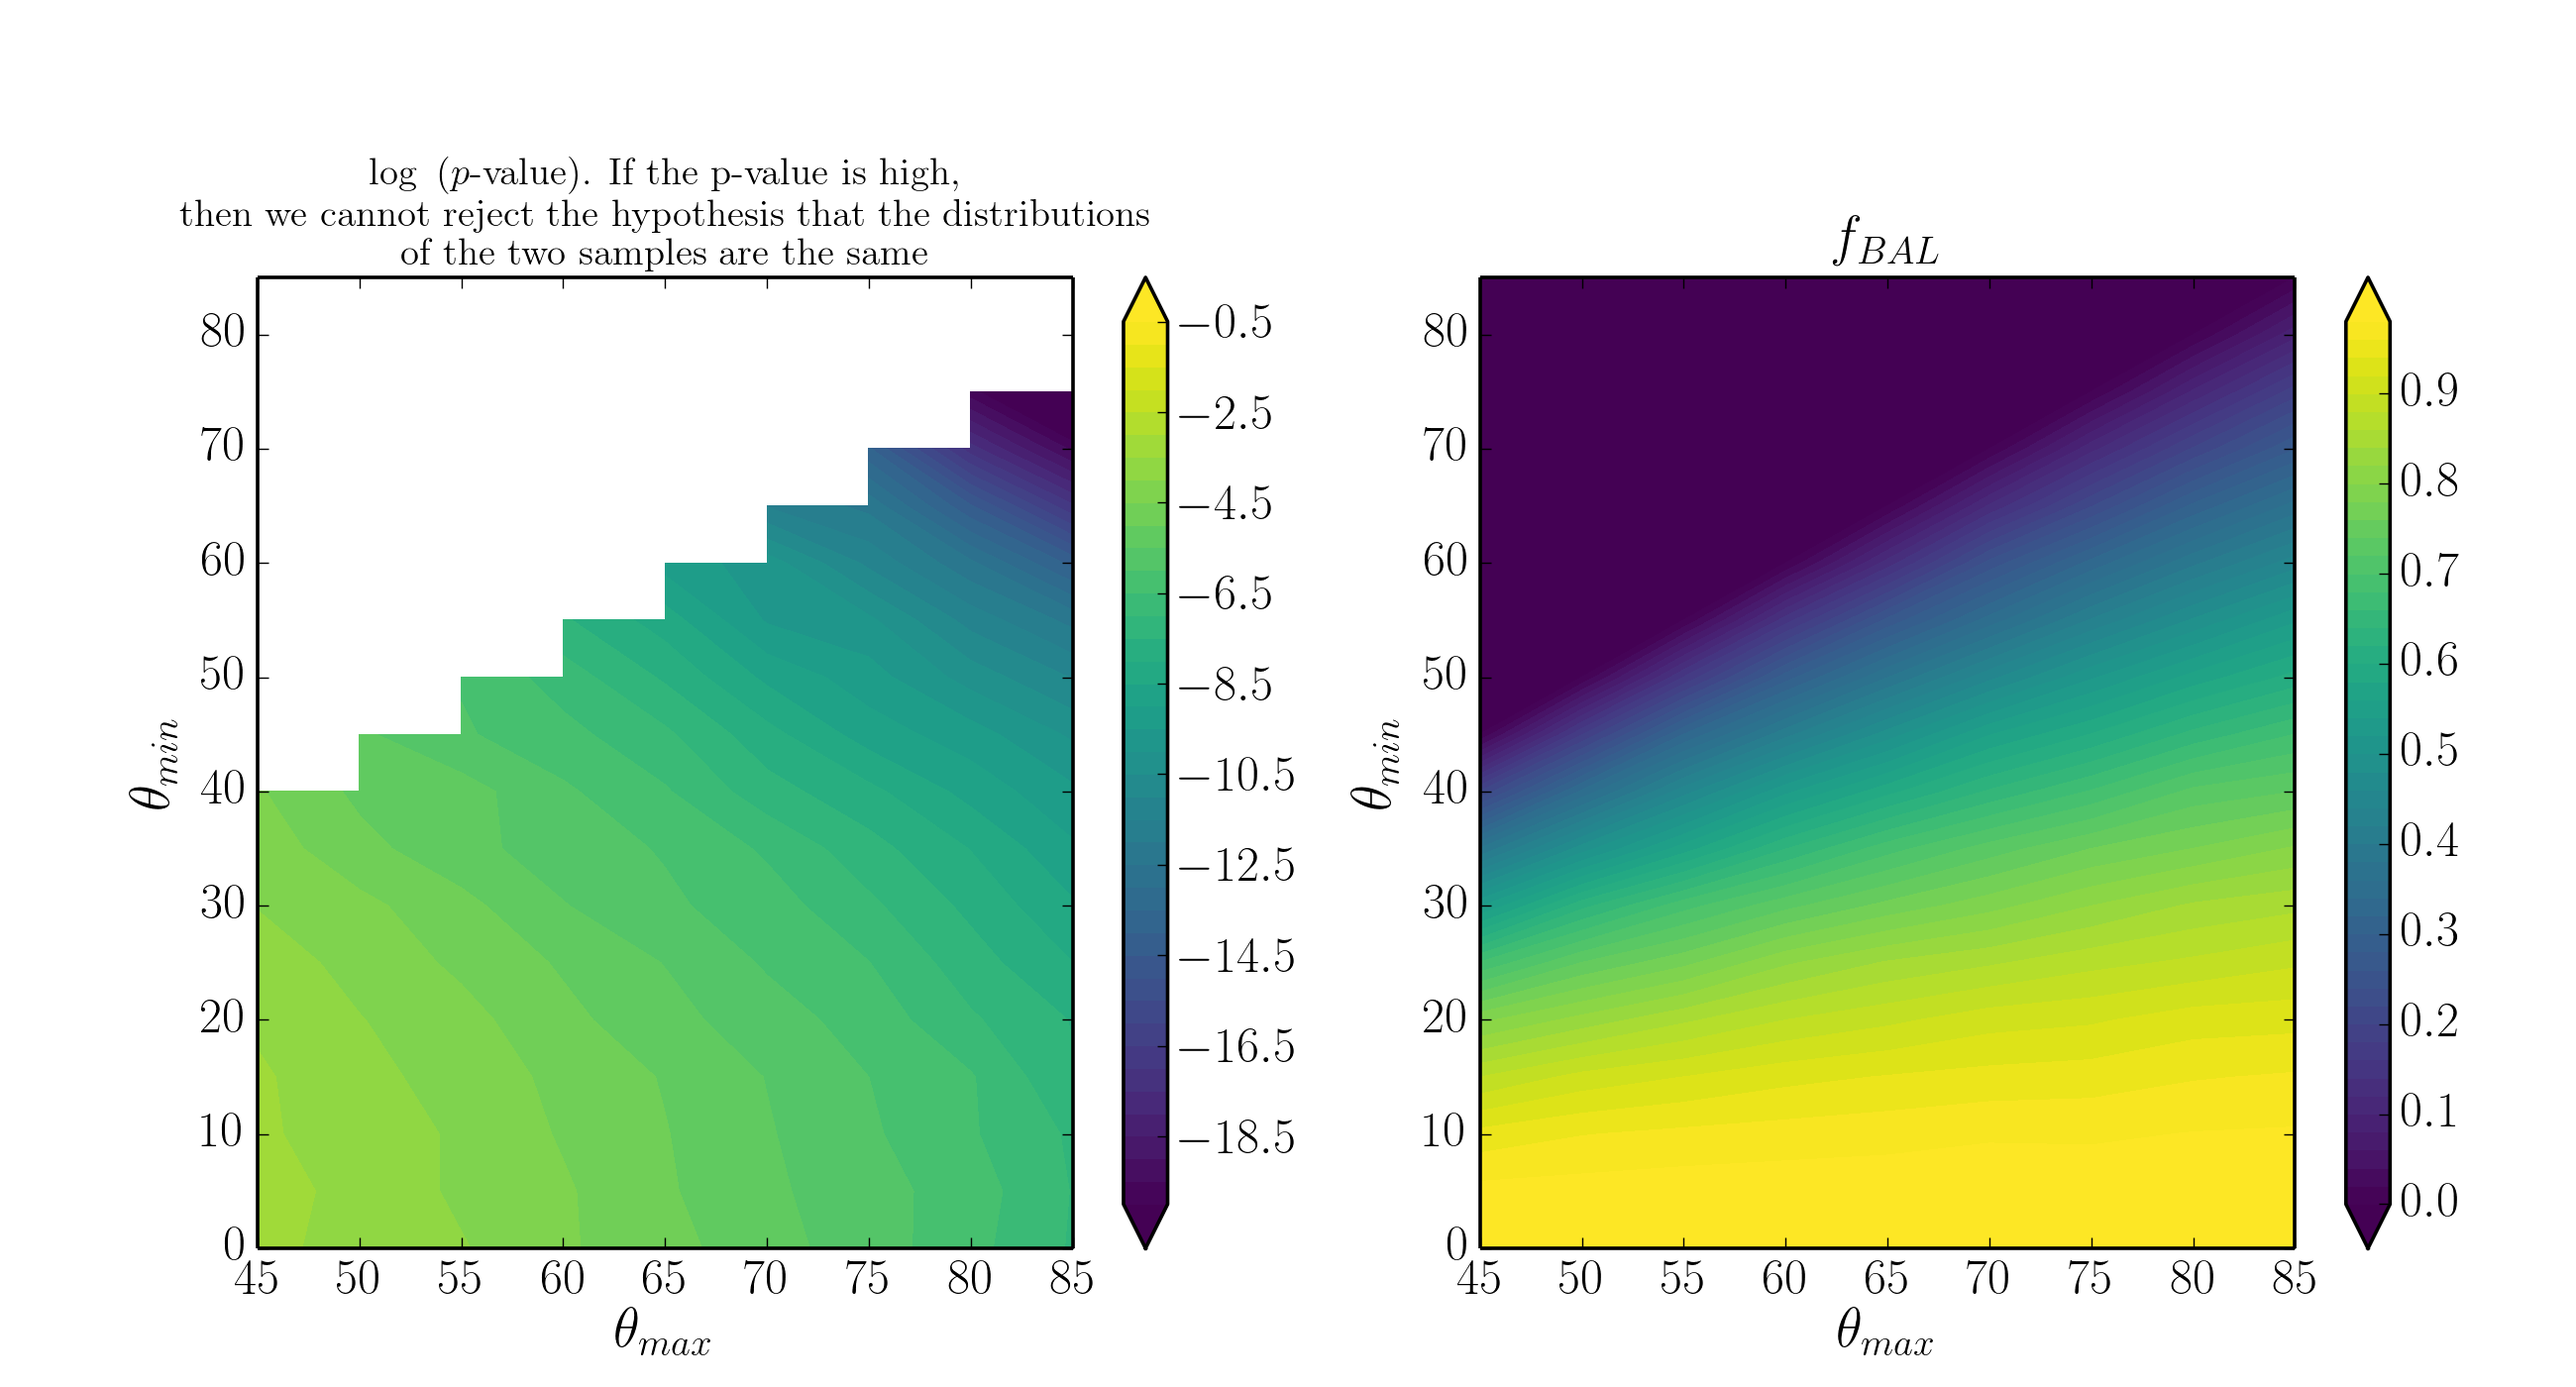
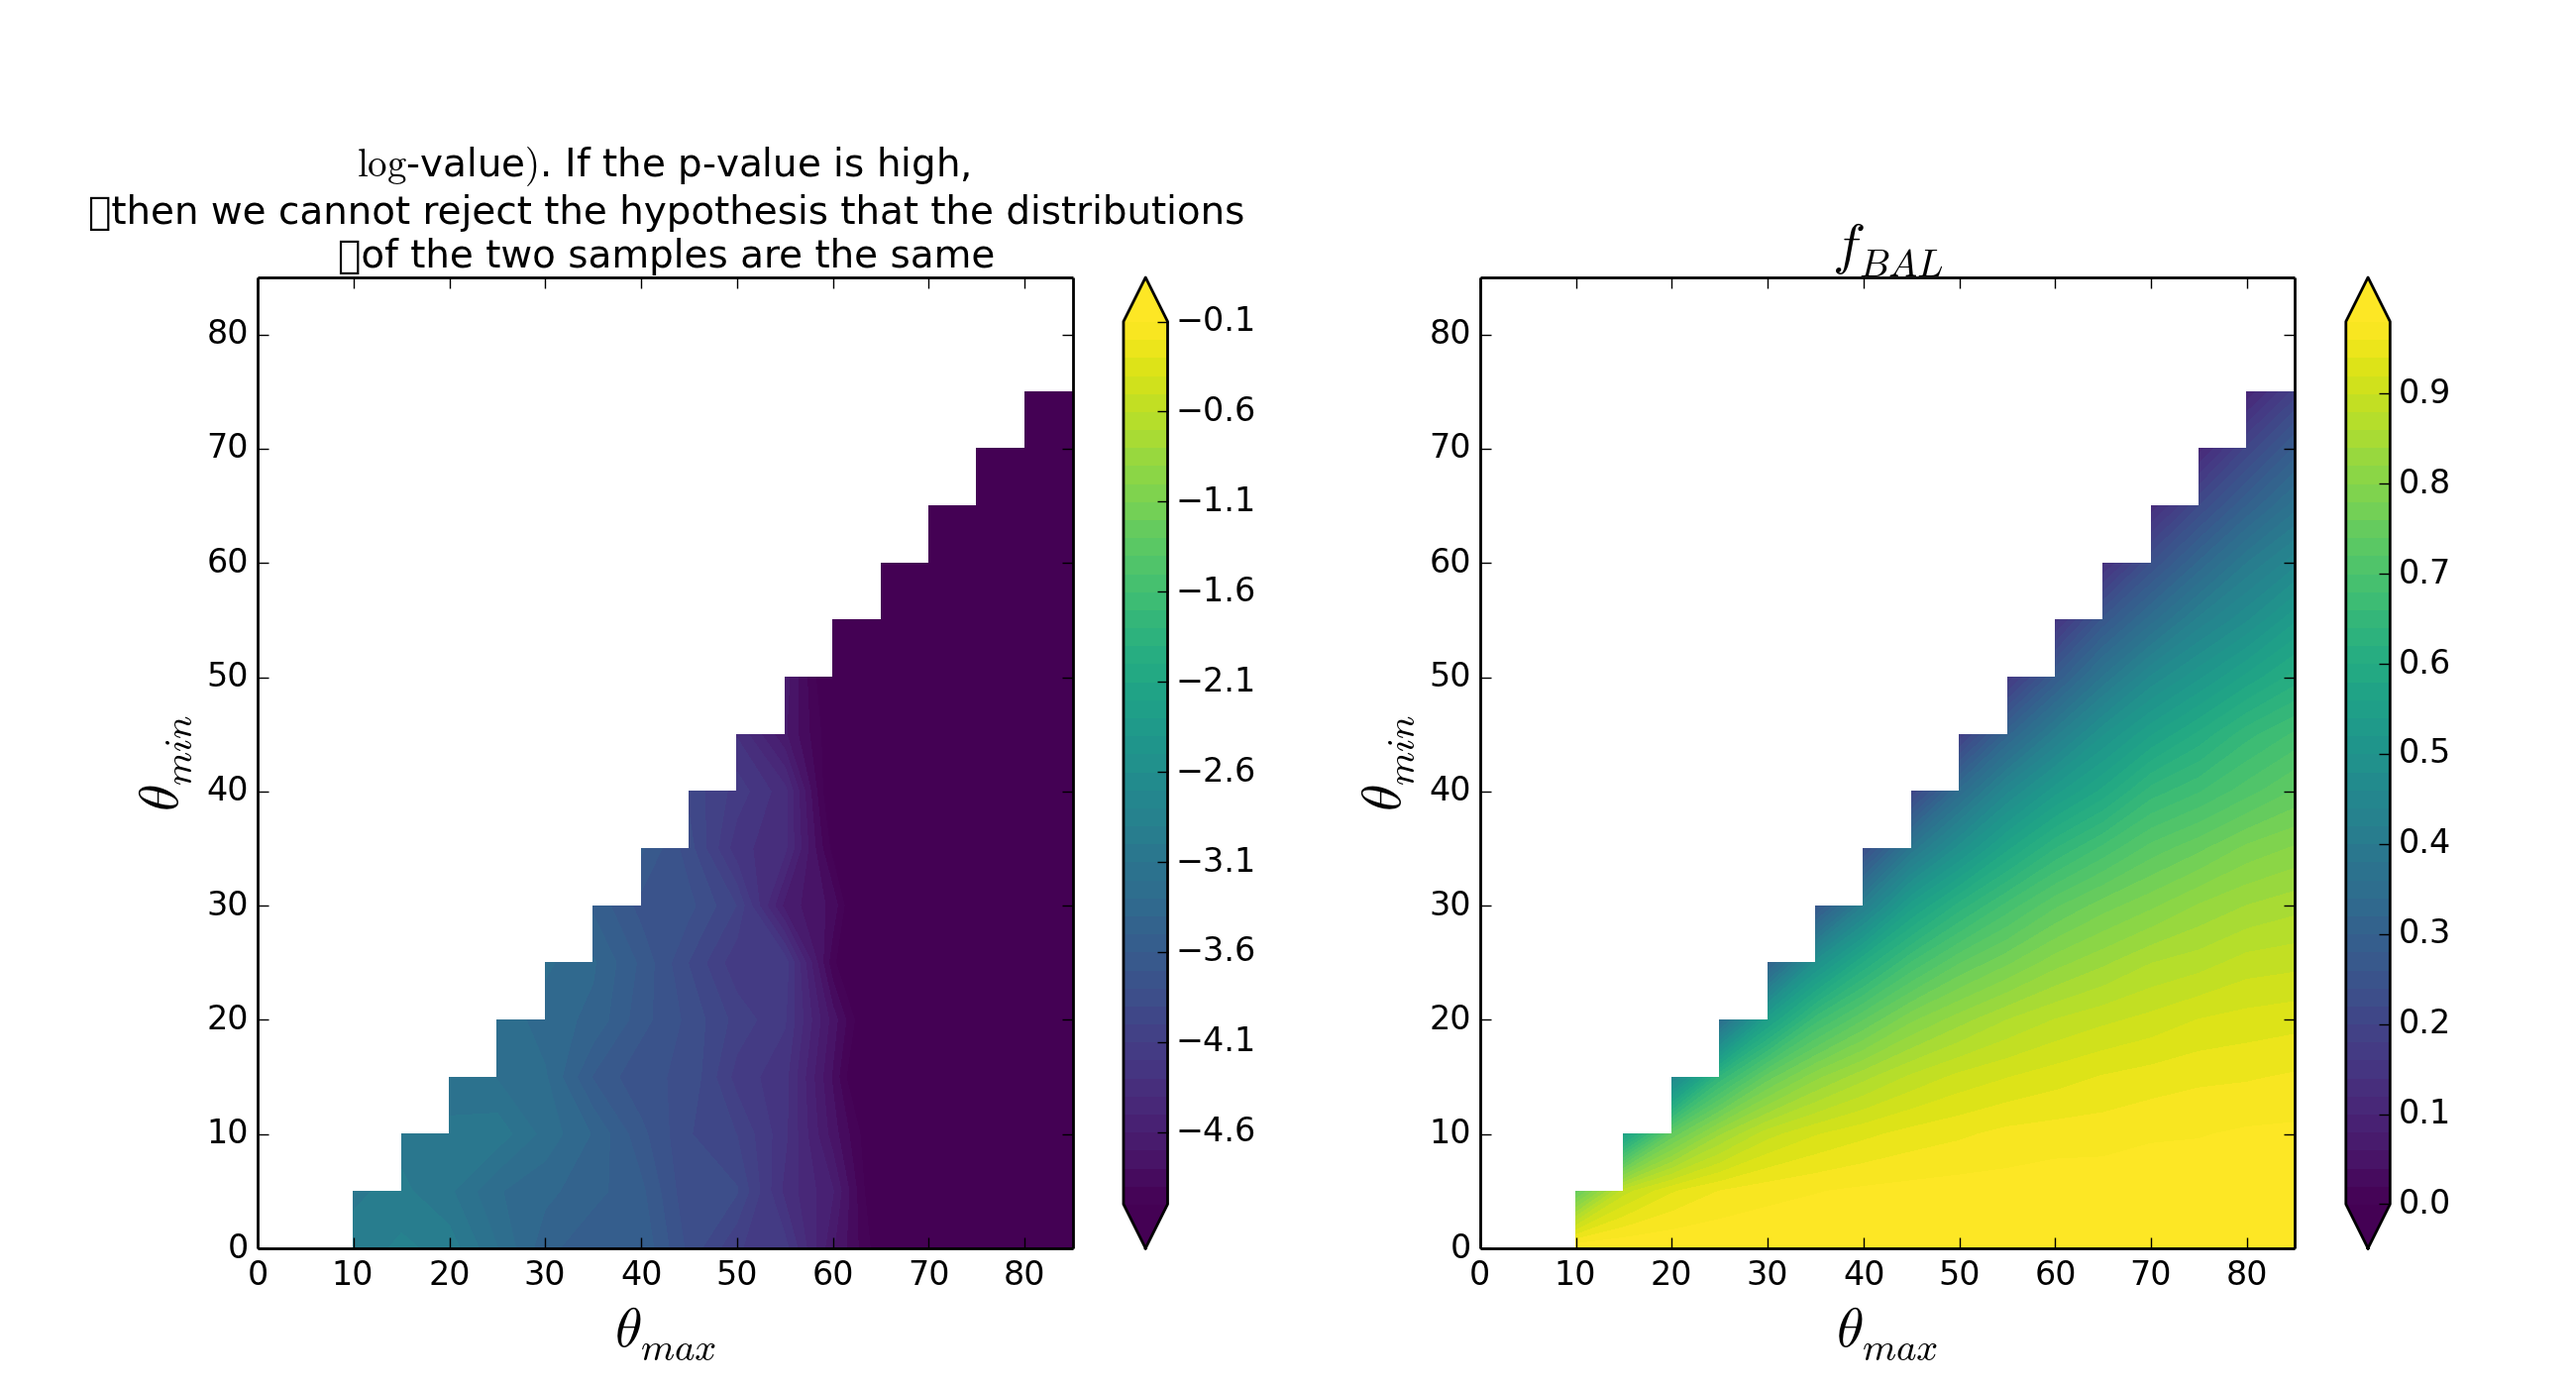
some changes to MC

diff --git a/ew_stats/ew_stats_main.py b/ew_stats/ew_stats_main.py
@@ -15,6 +15,8 @@ import scipy.stats as stats
 import matplotlib.mlab as mlab
 import sdss_sub_data as sub
 from matplotlib.colors import LinearSegmentedColormap
+from scipy.optimize import curve_fit
+import make_plots
 
 colors = get_colors()
 
@@ -93,6 +95,54 @@ def get_mock_angles(THRESHOLD, NPTS, max_angle=None):
 
 	return costhetas, bal_flags
 
+# Define model function to be used to fit to the data above:
+def gauss(x, *p):
+	
+	'''
+	gaussian function 
+	'''
+
+	A, mu, sigma = p
+
+	return A * np.exp(-(x-mu)**2/(2.*sigma**2))
+
+
+def fit_histogram(ews, max_angle):
+
+	'''
+	get fit parameters for EW for the quasars. This is our best
+	guess at an intrinsic distribution.
+	'''
+
+	# first get random angles just for some quasars
+	NPTS = len(ews)
+
+	if max_angle > 0.0:
+		costhetas, flags = get_mock_angles(0.0, NPTS, max_angle=max_angle)
+	else:
+		costhetas = np.ones(NPTS)
+
+	# intrinsic distribution will be corrected by costhetas
+	intrinsic = costhetas * ews
+	log_intrinsic = np.log10(intrinsic)
+
+	# make a histogram of log EW
+	n, bins = np.histogram(log_intrinsic, normed=True, bins=np.arange(-1,3,0.05))
+	
+	# estimate and error, root N stats
+	n_error = np.sqrt(n)
+
+	# p0 is the initial guess for the fitting coefficients (A, mu and sigma above)
+	p0 = [1., 0., 1.]
+
+	# fit with gaussian
+	bin_centres = 0.5*(bins[1:] + bins[:-1])
+	coeff, var_matrix = curve_fit(gauss, bin_centres, n, p0=p0)
+
+	return coeff, intrinsic
+
+
+
 
 def set_subplot_ticks():
 	'''
@@ -105,6 +155,20 @@ def set_subplot_ticks():
 	gca().set_xticklabels(["0.1","1","10","$10^2$","$10^3$","$10^4$"])
 
 	return 
+
+
+def mock_data_from_gauss(NPTS, *coeff):
+
+	A, loc, scale = coeff 
+
+	return np.random.normal(loc=loc, scale=scale, size=NPTS)
+
+
+
+
+
+
+
 
 
 class selection:
@@ -207,7 +271,7 @@ class simulation:
 					print '------------------'
 
 					# record the values in some arrays
-					self.ks_p_value[i,j] = stats.ks_2samp(self.mock_data[select_mock_bals], ews[select.general*select.mgbal])[1]
+					self.ks_p_value[i,j] = stats.ks_2samp(mock_data[select_mock_bals], ews[select.general*select.mgbal])[1]
 					self.f_bal[i,j] = bal_frac
 
 					# store the standard dev and mean of the dataset
@@ -226,93 +290,87 @@ class simulation:
 		return 0
 
 
+	#def function_to_minimise(A, mu, sigma, )
 
 
-		
 
-def plot_contour(sim):
+	def run_gauss(self, select):
+		'''
+		run the actual simulation, using select as the booleans
+		and data as the data
 
-	'''
-	sim 
-	instance of class simulation 
-	'''
+		populates the f_bal and ks_test arrays
+		'''
+		logbins = False
 
-	cm_use=get_viridis()
-	# below here it's just plotting...
-	figure(figsize=(13,7))
-	subplot(1,2,1)
+		# now iterate over the thresold angles
+		for i, thmin in enumerate(self.thetamin):
+			for j,thmax in enumerate(self.thetamax):
 
-	sim.ks_p_value = np.ma.masked_array(sim.ks_p_value, mask=(sim.ks_p_value == 0) )
-	sim.f_bal = np.ma.masked_array(sim.f_bal, mask=(sim.f_bal == 0) )
+				print i, j
 
-	contourf(sim.thetamax, sim.thetamin, np.log10(sim.ks_p_value), extend='both', levels=np.arange(-20,0,0.5), cmap=cm_use)
-	#contour(thetamax, thetamins, np.log10(ks_test), levels=np.log10(np.array([0.001,0.05,0.32])), c="k")
-	ylabel(r"$\theta_{min}$", fontsize=20)
-	xlabel(r"$\theta_{max}$", fontsize=20)
-	title('''$\log~(p$-value$)$. If the p-value is high, 
-	then we cannot reject the hypothesis that the distributions 
-	of the two samples are the same''', fontsize=14)
+				if thmax > thmin:
+					
+					ews = self.data["ew_o3"][select.general]
+					ew_bals = self.data["ew_o3"][select.general*select.mgbal]
 
-	subplot(1,2,2)
-	contourf(sim.thetamax, sim.thetamin, sim.f_bal, extend='both', levels=np.arange(0,1,0.02), cmap=cm_use)
-	#contour(thetamax, thetamins, f_bal)
-	colorbar()
-	ylabel(r"$\theta_{min}$", fontsize=20)
-	xlabel(r"$\theta_{max}$", fontsize=20)
-	title("$f_{BAL}$", fontsize=20)
+					# fit the histogram yeh
+					print "fitting"
+					coeff, intrinsic = fit_histogram(ews, thmin)
+					print "successful fit"
 
-	subplots_adjust(left=0.1,right=0.97,top=0.80)
-	savefig("contour.png", dpi=200)
+					NPTS =	len(ews)
 
-	return 0
+					# get angles above the threshold generated uniformly on sky
+					# and apply to EW measurements
+					costhetas, mock_bal_flags = get_mock_angles(thmin, NPTS, max_angle=thmax)
+
+					# mock data needs to be divided by emissivity function
+					# mock_data = self.data["ew_o3"][select.general]
+					mock_data = 10.0**mock_data_from_gauss(NPTS, *coeff)
+					mock_data = mock_data / emissivity_function(costhetas)
+
+					# selections based on flags returned from angle sim
+					select_mock_bals = (mock_bal_flags == "b")
+					select_mock_nonbals = (mock_bal_flags == "q")
+
+					# bal fraction- just number of objects!
+					bal_frac = float(np.sum(select_mock_bals)) / float(NPTS)
 
 
-def plot_contour2(sim):
+					'''
+					If the K-S statistic is small or the p-value is high, 
+					then we cannot reject the hypothesis that the distributions 
+					of the two samples are the same.
+					'''
+					print i, j
+					print '------------------'
 
-	'''
-	sim 
-	instance of class simulation 
-	'''
+					# record the values in some arrays
+					self.ks_p_value[i,j] = stats.ks_2samp(mock_data[select_mock_bals], ew_bals)[1]
+					self.f_bal[i,j] = bal_frac
 
-	d_use = sim.data["ew_o3"][select.general*select.mgbal]
+					# store the standard dev and mean of the dataset
+					self.std_dev[i,j] = np.std(mock_data[select_mock_bals])
+					self.mean[i,j] = np.mean(mock_data[select_mock_bals])
 
-	mu = np.mean(d_use)
-	sigma = np.std(d_use)
+					figure()
+					bins = np.arange(-2,3,0.1)
+					ALPHA = 0.3
+					hist(np.log10(ew_bals), normed=True, facecolor=colors[0], alpha=ALPHA, bins=np.arange(-2,3,0.1), label="BAL")
+					hist(np.log10(mock_data[select_mock_bals]), normed=True, facecolor=colors[1], alpha=ALPHA, bins=np.arange(-2,3,0.1), label="Mock BAL")
+					hist(np.log10(intrinsic), normed=True, facecolor=colors[3], alpha=ALPHA, bins=np.arange(-2,3,0.1), label="Intrinsic")
+					hist(np.log10(ews), normed=True, facecolor=colors[4], alpha=ALPHA, bins=np.arange(-2,3,0.1), label="BAL")
+					binc = 0.5*(bins[1:] + bins[:-1])
+					plot(binc, gauss(binc, *coeff), c="r", linewidth=2, label="Intrinsic fit")
+					float_legend()
+					savefig("hist_%i_%i.png" % (thmin, thmax), dpi=100)
+					clf()
 
-	sim.mean = np.ma.masked_array(sim.mean, mask=(sim.mean == 0) )
-	sim.std_dev = np.ma.masked_array(sim.std_dev, mask=(sim.std_dev == 0) )
+					print bal_frac, self.ks_p_value[i,j]
+					print 
 
-	cm_use=get_viridis()
-	# below here it's just plotting...
-	figure(figsize=(13,7))
-	subplot(1,2,1)
-
-	contourf(sim.thetamax, sim.thetamin, sim.mean - mu, extend="max", cmap=cm_use, levels=np.arange(-10,50,1))
-	colorbar()
-
-	CS4 =contour(sim.thetamax, sim.thetamin, sim.mean - mu, colors=('w',), linewidths=(2,),levels=np.arange(-10,60,10))
-	clabel(CS4, fmt='%2i', colors='w', fontsize=14)
-
-	ylabel(r"$\theta_{min}$", fontsize=20)
-	xlabel(r"$\theta_{max}$", fontsize=20)
-	title(r"$\Delta \mu = \mu_{EW,mock} - \mu_{EW,BALs}$", fontsize=20)
-
-	subplot(1,2,2)
-	contourf(sim.thetamax, sim.thetamin, sim.std_dev - sigma, extend="max", cmap=cm_use, levels=np.arange(-10,50,1))
-	colorbar()
-
-	CS4 = contour(sim.thetamax, sim.thetamin, sim.std_dev - sigma,  colors=('w',), linewidths=(2,), levels=np.arange(-10,60,10))
-	#contour(thetamax, thetamins, f_bal)
-	clabel(CS4, fmt='%2i', colors='w', fontsize=14)
-	
-	ylabel(r"$\theta_{min}$", fontsize=20)
-	xlabel(r"$\theta_{max}$", fontsize=20)
-	title(r"$\Delta \sigma = \sigma_{EW,mock} - \sigma_{EW,BALs}$", fontsize=20)
-
-	subplots_adjust(left=0.1,right=0.97,top=0.93)
-	savefig("contour2.png", dpi=200)
-
-	return 0
+		return 0
 
 
 
@@ -335,8 +393,9 @@ if __name__ == "__main__":
 	sim = simulation(thetamin, thetamax, data)
 
 	# run sim
-	sim.run(select)
+	#sim.run(select)
+	sim.run_gauss(select)
 
 	# make the contour plots
-	plot_contour(sim)
-	plot_contour2(sim)
+	make_plots.plot_contour(sim)
+	make_plots.plot_contour2(sim)

diff --git a/ew_stats/make_plots.py b/ew_stats/make_plots.py
@@ -1,0 +1,105 @@
+#from plot_norm import *
+import numpy as numpy
+from pylab import *
+import os, sys
+from cobra_sub import smooth
+import py_read_output as r 
+import py_plot_output as pl
+import py_plot_util as util 
+import matplotlib.pyplot as plt
+import matplotlib.gridspec as gridspec
+from plot_norm import *
+from constants import *
+from pretty import *
+import scipy.stats as stats
+import matplotlib.mlab as mlab
+import sdss_sub_data as sub
+from matplotlib.colors import LinearSegmentedColormap
+from scipy.optimize import curve_fit
+
+
+
+def plot_contour(sim):
+
+	'''
+	sim 
+	instance of class simulation 
+	'''
+
+	cm_use=get_viridis()
+	# below here it's just plotting...
+	figure(figsize=(13,7))
+	subplot(1,2,1)
+
+	sim.ks_p_value = np.ma.masked_array(sim.ks_p_value, mask=(sim.ks_p_value == 0) )
+	sim.f_bal = np.ma.masked_array(sim.f_bal, mask=(sim.f_bal == 0) )
+
+	contourf(sim.thetamax, sim.thetamin, np.log10(sim.ks_p_value), extend='both', levels=np.arange(-5,0,0.1), cmap=cm_use)
+	#contour(thetamax, thetamins, np.log10(ks_test), levels=np.log10(np.array([0.001,0.05,0.32])), c="k")
+	colorbar()
+	ylabel(r"$\theta_{min}$", fontsize=20)
+	xlabel(r"$\theta_{max}$", fontsize=20)
+	title('''$\log~(p$-value$)$. If the p-value is high, 
+	then we cannot reject the hypothesis that the distributions 
+	of the two samples are the same''', fontsize=14)
+
+	subplot(1,2,2)
+	contourf(sim.thetamax, sim.thetamin, sim.f_bal, extend='both', levels=np.arange(0,1,0.02), cmap=cm_use)
+	#contour(thetamax, thetamins, f_bal)
+	colorbar()
+	ylabel(r"$\theta_{min}$", fontsize=20)
+	xlabel(r"$\theta_{max}$", fontsize=20)
+	title("$f_{BAL}$", fontsize=20)
+
+	subplots_adjust(left=0.1,right=0.97,top=0.80)
+	savefig("contour.png", dpi=200)
+
+	return 0
+
+
+def plot_contour2(sim, select):
+
+	'''
+	sim 
+	instance of class simulation 
+	'''
+
+	d_use = sim.data["ew_o3"][select.general*select.mgbal]
+
+	mu = np.mean(d_use)
+	sigma = np.std(d_use)
+
+	sim.mean = np.ma.masked_array(sim.mean, mask=(sim.mean == 0) )
+	sim.std_dev = np.ma.masked_array(sim.std_dev, mask=(sim.std_dev == 0) )
+
+	cm_use=get_viridis()
+	# below here it's just plotting...
+	figure(figsize=(13,7))
+	subplot(1,2,1)
+
+	contourf(sim.thetamax, sim.thetamin, sim.mean - mu, extend="max", cmap=cm_use, levels=np.arange(-10,50,1))
+	colorbar()
+
+	CS4 =contour(sim.thetamax, sim.thetamin, sim.mean - mu, colors=('w',), linewidths=(2,),levels=np.arange(-10,60,10))
+	clabel(CS4, fmt='%2i', colors='w', fontsize=14)
+
+	ylabel(r"$\theta_{min}$", fontsize=20)
+	xlabel(r"$\theta_{max}$", fontsize=20)
+	title(r"$\Delta \mu = \mu_{EW,mock} - \mu_{EW,BALs}$", fontsize=20)
+
+	subplot(1,2,2)
+	contourf(sim.thetamax, sim.thetamin, cp - sigma, extend="max", cmap=cm_use, levels=np.arange(-10,50,1))
+	colorbar()
+
+	CS4 = contour(sim.thetamax, sim.thetamin, sim.std_dev - sigma,  colors=('w',), linewidths=(2,), levels=np.arange(-10,60,10))
+	#contour(thetamax, thetamins, f_bal)
+	clabel(CS4, fmt='%2i', colors='w', fontsize=14)
+	
+	ylabel(r"$\theta_{min}$", fontsize=20)
+	xlabel(r"$\theta_{max}$", fontsize=20)
+	title(r"$\Delta \sigma = \sigma_{EW,mock} - \sigma_{EW,BALs}$", fontsize=20)
+
+	subplots_adjust(left=0.1,right=0.97,top=0.93)
+	savefig("contour2.png", dpi=200)
+
+	return 0
